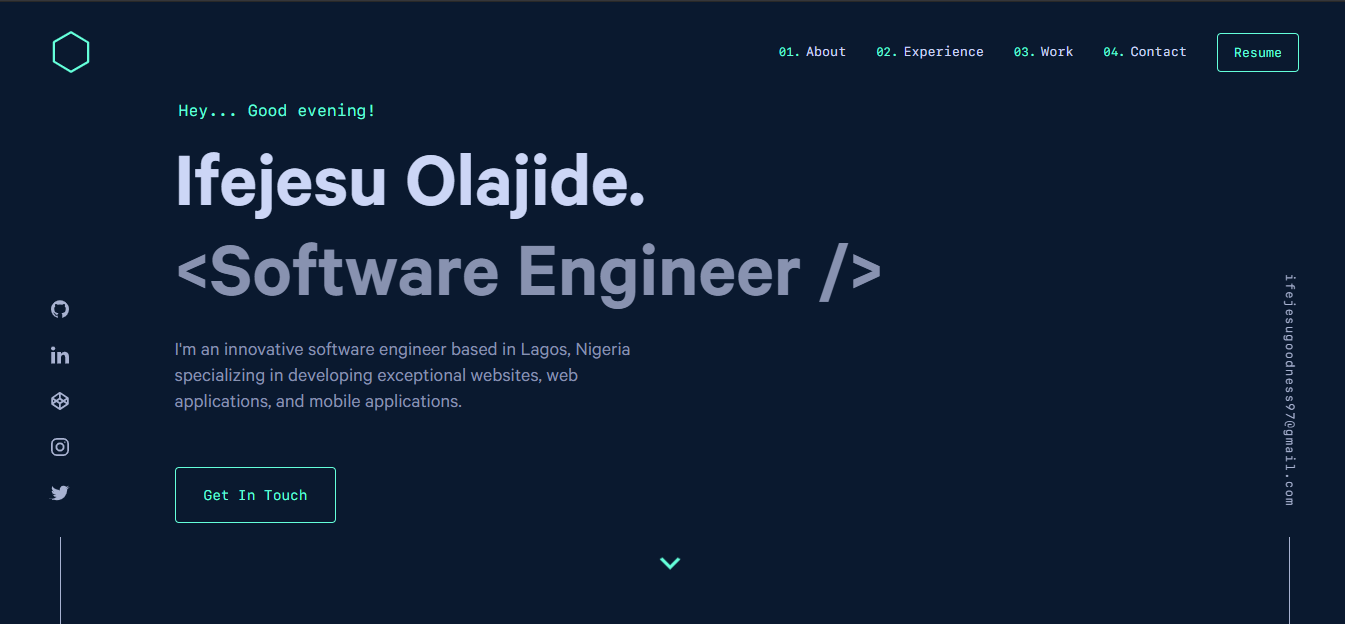
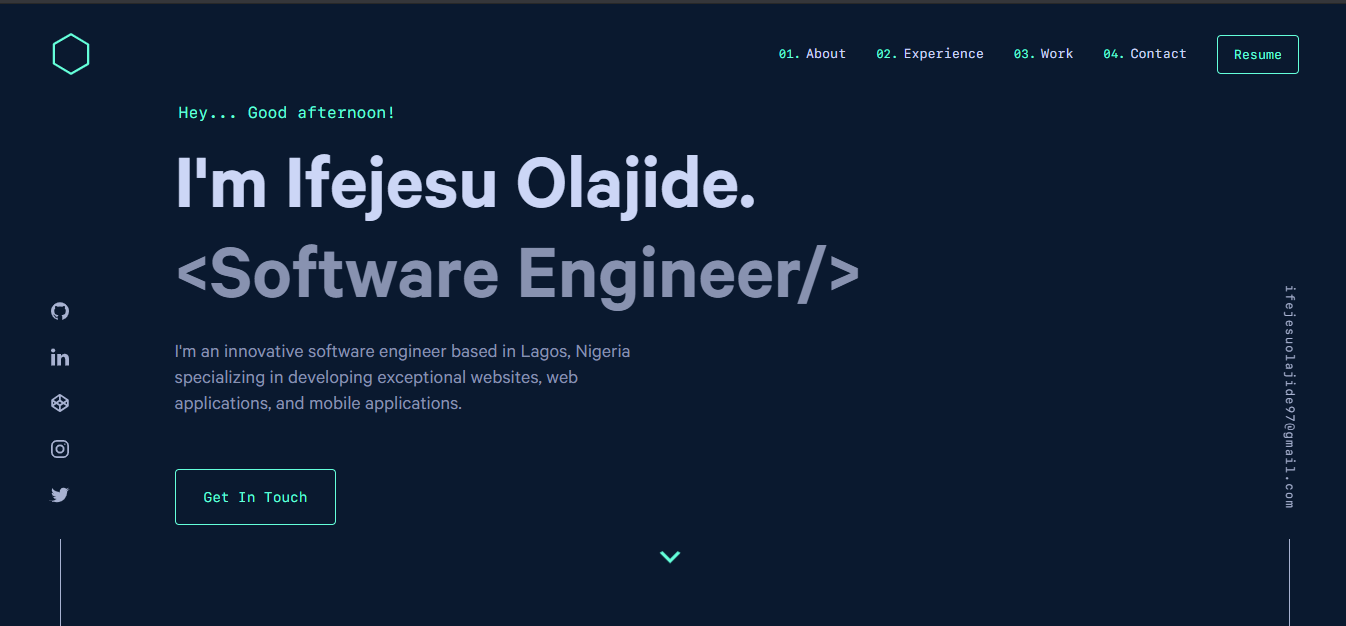
little update

diff --git a/src/components/sections/hero.js b/src/components/sections/hero.js
@@ -1,8 +1,10 @@
 import React, { useState, useEffect } from 'react';
 import { CSSTransition, TransitionGroup } from 'react-transition-group';
 import styled from 'styled-components';
-import { email } from '@config';
+import { professionalTitle, email } from '@config';
 import { navDelay, loaderDelay } from '@utils';
+import { Greeting } from '../greeting';
+import { IconArrowDown } from '../icons';
 
 const StyledHeroSection = styled.section`
   ${({ theme }) => theme.mixins.flexCenter};
@@ -39,6 +41,35 @@ const StyledHeroSection = styled.section`
   }
 `;
 
+const Arrow = styled.div`
+  margin: 0 auto;
+  position: relative;
+  bottom: -2rem;
+  left: 50%;
+  margin-left: -20px;
+  width: 30px;
+  height: 30px;
+  animation: bounce 2s infinite;
+  @media (max-width: 480px) {
+    display: none;
+  }
+  @keyframes bounce {
+    0%,
+    20%,
+    50%,
+    80%,
+    100% {
+      transform: translateY(0);
+    }
+    40% {
+      transform: translateY(-15px);
+    }
+    60% {
+      transform: translateY(-5px);
+    }
+  }
+`;
+
 const Hero = () => {
   const [isMounted, setIsMounted] = useState(false);
 
@@ -47,13 +78,19 @@ const Hero = () => {
     return () => clearTimeout(timeout);
   }, []);
 
-  const one = <h1>Hi, my name is</h1>;
-  const two = <h2 className="big-heading">Ifejesu Olajide.</h2>;
-  const three = <h3 className="big-heading">I build things for the web.</h3>;
+  const one = <Greeting />;
+  const two = <h2 className="big-heading">I'm Ifejesu Olajide.</h2>;
+  const three = (
+    <h3 className="big-heading">
+      {'<'}
+      {professionalTitle}
+      {'/>'}
+    </h3>
+  );
   const four = (
     <p>
-      I'm a software engineer based in Lagos, Nigeria specializing in building (and occasionally
-      designing) exceptional websites, applications, and everything in between.
+      I'm an innovative software engineer based in Lagos, Nigeria specializing in developing
+      exceptional websites, web applications, and mobile applications.
     </p>
   );
   const five = (
@@ -74,6 +111,11 @@ const Hero = () => {
             </CSSTransition>
           ))}
       </TransitionGroup>
+      {isMounted && (
+        <Arrow>
+          <IconArrowDown />
+        </Arrow>
+      )}
     </StyledHeroSection>
   );
 };

diff --git a/src/components/index.js b/src/components/index.js
@@ -6,6 +6,7 @@ export { default as Menu } from './menu';
 export { default as Side } from './side';
 export { default as Social } from './social';
 export { default as Email } from './email';
+export { default as Greeting } from './greeting';
 export { default as Footer } from './footer';
 export { default as Hero } from './sections/hero';
 export { default as About } from './sections/about';

diff --git a/src/components/icons/icon.js b/src/components/icons/icon.js
@@ -16,6 +16,7 @@ import {
   IconStar,
   IconTwitter,
   IconZap,
+  IconArrowDown,
 } from '@components/icons';
 
 const Icon = ({ name }) => {
@@ -50,6 +51,8 @@ const Icon = ({ name }) => {
       return <IconTwitter />;
     case 'Zap':
       return <IconZap />;
+    case 'ArrowDown':
+      return <IconArrowDown />;
     default:
       return <IconExternal />;
   }

diff --git a/src/components/icons/index.js b/src/components/icons/index.js
@@ -14,3 +14,4 @@ export { default as IconPlayStore } from './playstore';
 export { default as IconStar } from './star';
 export { default as IconTwitter } from './twitter';
 export { default as IconZap } from './zap';
+export { default as IconArrowDown } from './arrowDown';

diff --git a/src/components/sections/jobs.js b/src/components/sections/jobs.js
@@ -7,7 +7,7 @@ import { KEY_CODES } from '@utils';
 import sr from '@utils/sr';
 
 const StyledJobsSection = styled.section`
-  max-width: 700px;
+  max-width: 900px;
 
   .inner {
     display: flex;

diff --git a/src/config.js b/src/config.js
@@ -1,5 +1,6 @@
 module.exports = {
   email: 'ifejesuolajide97@gmail.com',
+  professionalTitle: 'Software Engineer',
 
   socialMedia: [
     {
